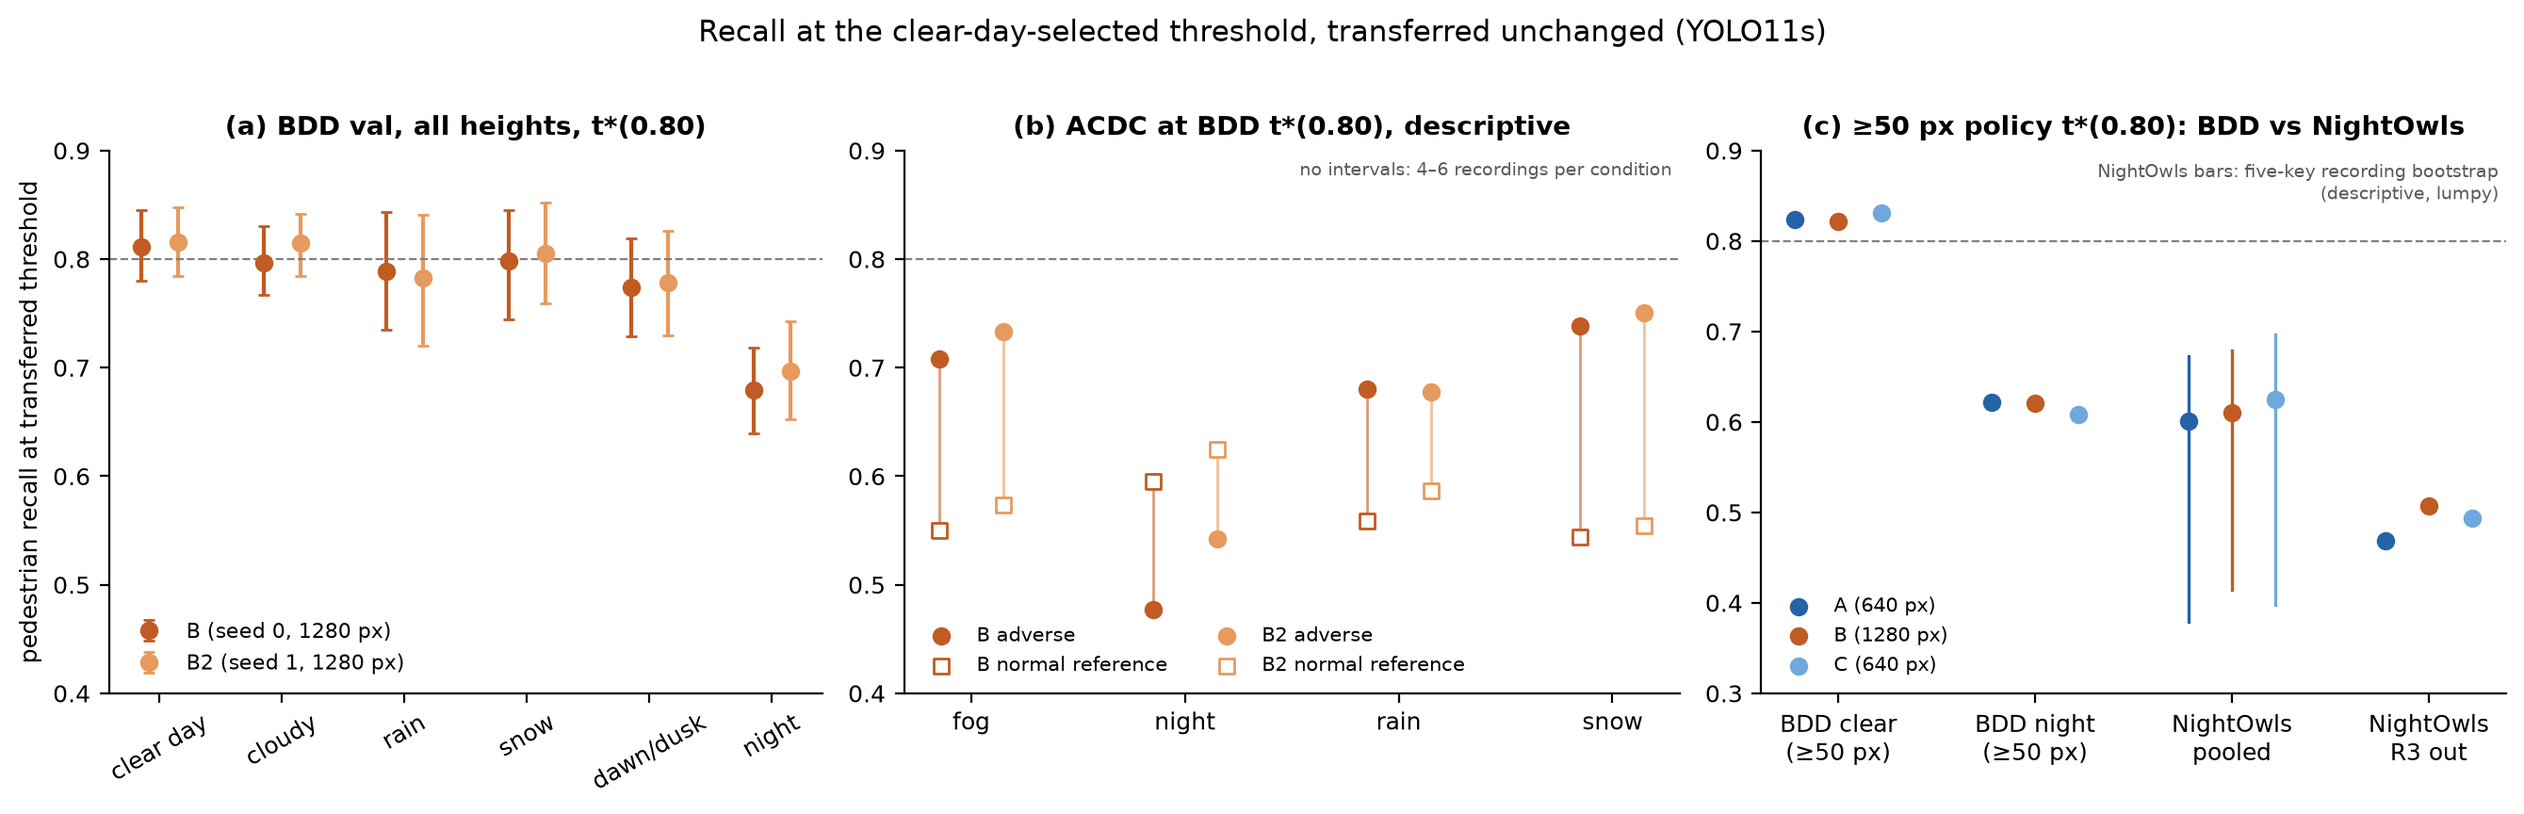
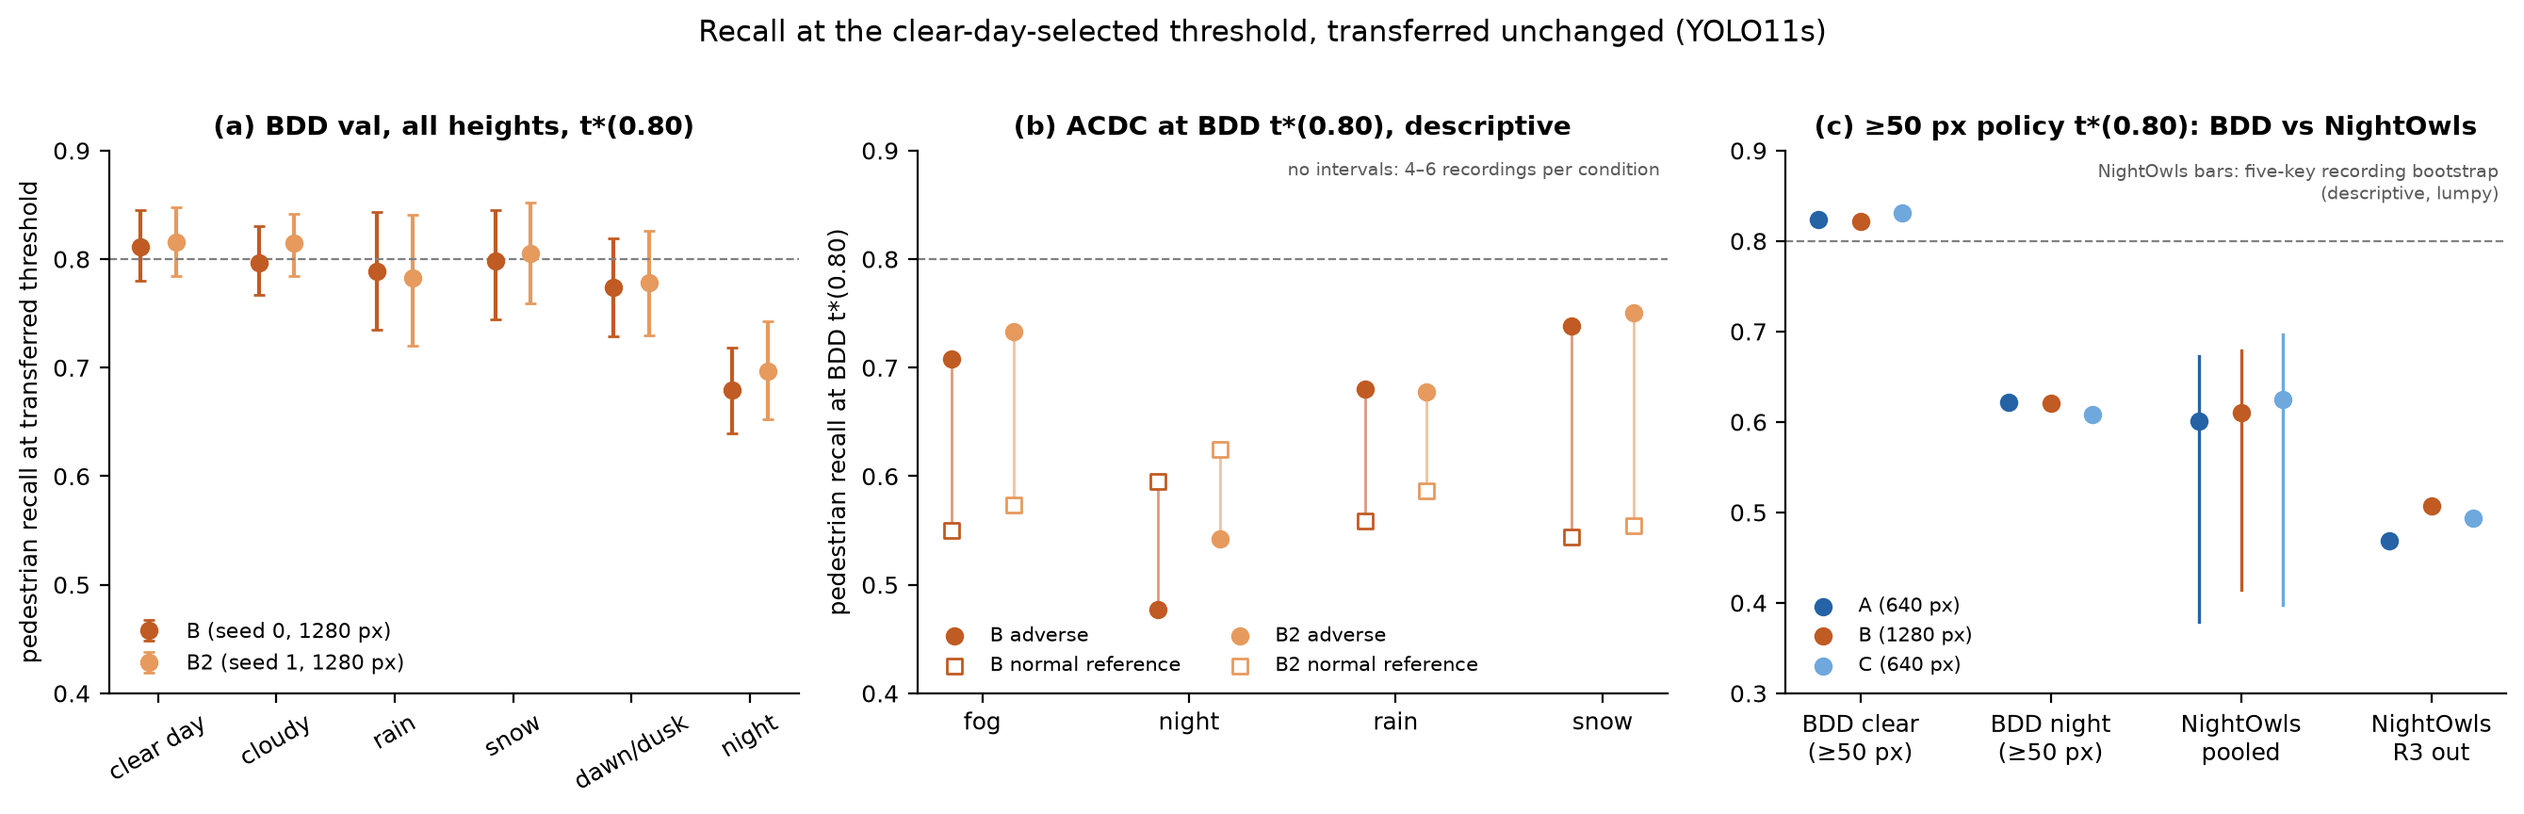
Address independent review of threshold-transfer synthesis
Fix Fig. 3 encoding/caption (ceiling difference as hatched excess), compute
disclosure (RT-DETR ~0.3 CU excluded, 262.56->200.00 anomaly, 5.06 CU
attribution), label RT-DETR status as unmerged (2756dbd), restrict B2
sensitivity claim, consistent NightOwls signs, restore populations caveat,
soften darkness wording, cite [P], add Fig. 1b y-label; regenerate figures.
Append author response table to the review.

diff --git a/scripts/reports/threshold_transfer_synthesis_figures.py b/scripts/reports/threshold_transfer_synthesis_figures.py
@@ -22,7 +22,6 @@ import matplotlib
 
 matplotlib.use("Agg")
 import matplotlib.pyplot as plt  # noqa: E402
-from matplotlib.lines import Line2D  # noqa: E402
 from matplotlib.patches import Patch  # noqa: E402
 
 ROOT = Path(__file__).resolve().parents[2]
@@ -117,6 +116,7 @@ def fig_summary():
     ax.axhline(0.8, color="0.5", lw=0.8, ls="--")
     ax.set_xticks(range(4), strata)
     ax.set_ylim(0.4, 0.9)
+    ax.set_ylabel("pedestrian recall at BDD t*(0.80)")
     ax.set_title("(b) ACDC at BDD t*(0.80), descriptive")
     ax.legend(frameon=False, fontsize=7.5, ncol=2, loc="lower left")
     ax.text(0.99, 0.98, "no intervals: 4–6 recordings per condition",
@@ -215,6 +215,7 @@ def fig_remedies():
 def fig_decomposition():
     rem = {a: jload(REM / f"remedies_trainnight_{a}.json")["arms"][a] for a in ["A", "B", "C", "B2"]}
     now = nightowls_rows()
+    agg = jload(NOW / "aggregate.json.gz")
     rows = []  # label, recall, removable, unmatched, ceiling_diff
     for arm, op, lab in [("A", "L1.0", "A, BDD night, FPPI 1"), ("C", "L1.0", "C, BDD night, FPPI 1"),
                          ("B", "L1.0", "B, BDD night, FPPI 1"), ("B2", "L1.0", "B2, BDD night, FPPI 1"),
@@ -229,25 +230,29 @@ def fig_decomposition():
         gt = float(r["eligible_gt"])
         rec = float(r["recall"])
         mn = float(r["ceiling_recall"])
-        rows.append((f"{lab}, NightOwls ≥50 px, t*(0.80)", rec, mn - rec, 1 - mn, None))
+        m_clear = agg["arms"][arm]["bdd_h50"]["clear"]["ceiling"]["recall"]
+        rows.append((f"{lab}, NightOwls ≥50 px, t*(0.80)", rec, mn - rec, 1 - mn, m_clear - mn))
         assert abs((1 - mn) * gt - float(r["no_matched_candidate"])) < 0.5
     fig, ax = plt.subplots(figsize=(9.5, 4.6))
     y = list(range(len(rows)))[::-1]
     for yi, (lab, rec, remv, unm, cd) in zip(y, rows):
         ax.barh(yi, rec, color="#3b7d4f")
         ax.barh(yi, remv, left=rec, color="#e3b448")
-        ax.barh(yi, unm, left=rec + remv, color="#9a3b3b")
-        if cd is not None:
-            ax.plot([1 - cd, 1 - cd], [yi - 0.4, yi + 0.4], color="black", lw=1.2)
+        # red segment = 1 - M_night, split into the clear-day-level share (1 - M_clear, solid)
+        # and the excess over clear day (M_clear - M_night = ceiling difference, hatched)
+        ax.barh(yi, unm - cd, left=rec + remv, color="#9a3b3b")
+        ax.barh(yi, cd, left=1 - cd, color="#d9a0a0", hatch="///", edgecolor="#9a3b3b", lw=0)
     ax.set_yticks(y, [r[0] for r in rows], fontsize=8)
     ax.set_xlim(0, 1)
     ax.set_xlabel("share of eligible night pedestrians")
     handles = [Patch(color="#3b7d4f", label="detected at transferred threshold"),
                Patch(color="#e3b448", label="matched candidate removed by threshold (M − R)"),
-               Patch(color="#9a3b3b", label="no matched candidate (1 − M)"),
-               Line2D([], [], color="black", label="clear-day unmatched share (1 − M_clear), BDD rows")]
+               Patch(color="#9a3b3b", label="no matched candidate, clear-day level (1 − M_clear)"),
+               Patch(facecolor="#d9a0a0", hatch="///", edgecolor="#9a3b3b",
+                     label="no matched candidate, excess over clear day (M_clear − M_night)")]
     ax.legend(handles=handles, frameon=False, fontsize=7.5, loc="upper center", bbox_to_anchor=(0.5, -0.13), ncol=2)
-    ax.set_title("Absolute night miss composition (IoU ≥ 0.5, score ≥ 1e-4); BDD rows: all heights")
+    ax.set_title("Absolute night miss composition (IoU ≥ 0.5, score ≥ 1e-4)\n"
+                 "BDD rows: all heights vs BDD clear day; NightOwls rows: vs BDD ≥50 px clear day")
     fig.tight_layout()
     save(fig, "fig3_miss_composition")
 

diff --git a/docs/research/2026-11-23_threshold_transfer_synthesis.md b/docs/research/2026-11-23_threshold_transfer_synthesis.md
@@ -1,6 +1,6 @@
 # Clear-day confidence thresholds under night and adverse-weather shift: a YOLO11s synthesis
 
-**Claude Opus 5.5, 2026-11-23. Synthesis draft of merged results only (PRs #13–#17); no new experiment, inference or recomputation.** Every number below is copied from the cited merged report or aggregate. The four figures are re-plotted from committed counts-only aggregates by [`scripts/reports/threshold_transfer_synthesis_figures.py`](../../scripts/reports/threshold_transfer_synthesis_figures.py). The underlying experiments were executed by Claude Opus 5.5 (BDD training, remedies, ACDC, NightOwls inference) and GPT Sol (NightOwls contract v2, BDD ≥50 px reference, NightOwls CPU scoring); that attribution is historical, and this synthesis adds no verification. The RT-DETR extension is paused and is not covered. **G0 remains pending.** This is a draft for review, not a claim of novelty.
+**Claude Opus 5.5, 2026-11-23. Synthesis draft of merged results only (PRs #13–#17); no new experiment, inference or recomputation.** Every number below is copied from the cited merged report or aggregate. The four figures are re-plotted from committed counts-only aggregates by [`scripts/reports/threshold_transfer_synthesis_figures.py`](../../scripts/reports/threshold_transfer_synthesis_figures.py). The underlying experiments were executed by Claude Opus 5.5 (BDD training, remedies, ACDC, NightOwls inference) and GPT Sol (NightOwls contract v2, BDD ≥50 px reference, NightOwls CPU scoring); that attribution is historical, and this synthesis adds no verification. The RT-DETR extension is paused, unmerged and not covered; §6 mentions its status only. An earlier plain-English briefing of the merged BDD evidence is [P]; this draft supersedes none of it. **G0 remains pending.** This is a draft for review, not a claim of novelty.
 
 **Sources** (cited by key throughout; paths relative to `docs/research/`):
 
@@ -61,9 +61,9 @@ The 640 px runs cannot test the preregistered question: even with every candidat
 
 ![Recall at the transferred threshold across BDD, ACDC and NightOwls](2026-11-23_threshold_transfer_synthesis/fig1_transfer_summary.png)
 
-*Figure 1. (a) BDD val strata at t\*(0.80) for B and B2, 95% image-bootstrap intervals (`B_1280.json` [T], `B2_1280.json` [R]). (b) ACDC adverse vs normal-reference strata at the same BDD thresholds, points only (`acdc_panel.json` [R]). (c) ≥50 px source policy at t\*(0.80): BDD clear and night references (`bdd_h50` in `aggregate.json.gz` [H50]) and NightOwls pooled with its five-key recording-bootstrap interval, and with R3 excluded (`recordings_primary.csv`, `source_policies.csv` [N]).*
+*Figure 1. (a) BDD val strata at t\*(0.80) for B and B2, 95% image-bootstrap intervals (`B_1280.json` [T], `B2_1280.json` [R]). (b) ACDC adverse vs normal-reference strata at the same BDD thresholds, points only (`acdc_panel.json` [R]). (c) ≥50 px source policy at t\*(0.80): BDD clear and night references (`bdd_h50` in `aggregate.json.gz` [H50]) and NightOwls pooled with its five-key recording-bootstrap interval, and with R3 excluded (`recordings_primary.csv`, `source_policies.csv` [N]). Only the NightOwls pooled points carry intervals; the BDD ≥50 px and R3-out points are point estimates. The BDD and NightOwls populations are not interchangeable [N].*
 
-Night is the only stratum with a clear loss. Daytime cloud, rain and snow lose 0.015, 0.023 and 0.013 recall for B, with every component interval including zero; dawn/dusk loses 0.037 with a small threshold component, 0.030 [0.004, 0.055] [T]. Night with clear weather (3,274 images) matches night overall, so darkness rather than night precipitation carries the effect [T]. At night the transferred threshold keeps fewer false positives than on clear day (2.37 vs 4.53 FPPI for B), and a night-specific threshold reaching 0.80 on the test images would cost 16.19 FPPI [T].
+Night is the only stratum with a clear loss. Daytime cloud, rain and snow lose 0.015, 0.023 and 0.013 recall for B, with every component interval including zero; dawn/dusk loses 0.037 with a small threshold component, 0.030 [0.004, 0.055] [T]. Night with clear weather (3,274 images) matches night overall, so night precipitation does not explain the night effect [T]. The check does not separate darkness from other night differences such as pedestrian density, scale or scene mix. At night the transferred threshold keeps fewer false positives than on clear day (2.37 vs 4.53 FPPI for B), and a night-specific threshold reaching 0.80 on the test images would cost 16.19 FPPI [T].
 
 **Pedestrians ≥50 px (post hoc on BDD, contract v2).** Restricting selection and test to pedestrians at least 50 px tall (shorter ones as ignore regions) makes all three contract runs feasible at 0.80, with selection recall 945/1,181 each [H50]. The source thresholds are 0.1114 (A), 0.2399 (B) and 0.1220 (C) [H50].
 
@@ -90,7 +90,7 @@ The decomposition reported in PR #13 is a *difference* decomposition. The absolu
 
 ![Absolute night miss composition](2026-11-23_threshold_transfer_synthesis/fig3_miss_composition.png)
 
-*Figure 3. Absolute composition of eligible night pedestrians at the transferred threshold: detected (R), matched candidate removed by threshold (M − R), no matched candidate (1 − M). BDD rows from `remedies_trainnight_*.json` [R]; NightOwls rows from `recordings_primary.csv` (pooled, ≥50 px, `unused_nonpedestrian`) [N]. Black ticks mark the clear-day unmatched share 1 − M_clear for BDD rows; their distance from the red segment's left edge is the ceiling difference.*
+*Figure 3. Absolute composition of eligible night pedestrians at the transferred threshold: detected (R), matched candidate removed by threshold (M − R), no matched candidate (1 − M). BDD rows from `remedies_trainnight_*.json` [R]; NightOwls rows from `recordings_primary.csv` (pooled, ≥50 px, `unused_nonpedestrian`) [N]. The no-matched-candidate segment (1 − M_night) is split into a solid part of length 1 − M_clear (the clear-day level) and a hatched part of length M_clear − M_night (the excess over clear day, i.e. the ceiling difference). The clear-day reference is BDD val clear day (all heights) for BDD rows and BDD ≥50 px clear day (`bdd_h50` in `aggregate.json.gz` [H50]) for NightOwls rows, whose hatched parts therefore equal [N]'s 16.28/15.00/14.49 pp ceiling differences across non-interchangeable populations.*
 
 **Definition sensitivity.** The split depends on matching definitions [T]. For B at 0.80, the ceiling/threshold split is 0.067/0.066 at the reported definition, 0.042/0.090 if any candidate at IoU ≥ 0.3 counts, and 0.089/0.043 with a 1e-3 score floor [T, `sensitivity_F1.json`]. Both parts stay positive in every variant, arm and FPPI level; the smallest is 0.030 [T]. Roughly 30–45% of the no-matched-candidate difference is pedestrians with only a poorly localized candidate (IoU 0.3–0.5) [T]. Pedestrians boxed as another class also count as unmatched, because non-pedestrian boxes were discarded [T].
 
@@ -132,13 +132,13 @@ ACDC was evaluated at the unchanged BDD thresholds, without intervals: 4–6 GoP
 
 Under the frozen contract (≥50 px BDD source t\*(0.80), Reasonable GT, `unused_nonpedestrian` profile) [N, V2]:
 
-| Run [N] | Recall | FPPI | Ceiling | Loss vs BDD ≥50 clear day | vs BDD ≥50 night | Five-key recording interval | R3 excluded: recall / FPPI |
+| Run [N] | Recall | FPPI | Ceiling | Loss vs BDD ≥50 clear day (BDD − NightOwls) | NightOwls − BDD ≥50 night | Five-key recording interval | R3 excluded: recall / FPPI |
 |---|---:|---:|---:|---:|---:|---|---|
 | A / 640 | 60.14% | 0.694 | 78.06% | 22.27 pp | −1.99 pp | 37.93–67.26% | 46.87% / 0.424 |
 | B / 1280 | 61.05% | 0.179 | 82.22% | 21.11 pp | −1.01 pp | 41.42–67.90% | 50.74% / 0.098 |
 | C / 640 | 62.50% | 0.887 | 80.02% | 20.63 pp | +1.67 pp | 39.76–69.63% | 49.41% / 0.575 |
 
-NightOwls recall at the transferred threshold is close to BDD ≥50 px night recall, and about 21–22 points below BDD ≥50 px clear day [N]. The loss splits into 16.28/15.00/14.49 pp ceiling difference and 5.98/6.12/6.14 pp threshold part; under any-candidate IoU ≥ 0.3, B/C become 9.32/11.79 and 9.03/11.59 pp, so which component dominates depends on the definition [N, N-rev]. A's 0.80 oracle is infeasible; B and C reach 0.80 only at 34.69 and 45.88 FPPI [N].
+NightOwls recall at the transferred threshold is close to BDD ≥50 px night recall, and about 21–22 points below BDD ≥50 px clear day [N]. These populations are not interchangeable: BDD lacks NightOwls' occlusion flag, and labelling, box extent, ignore rules and model-input scale differ, so neither contrast is a causal night effect [N, V2]. The loss splits into 16.28/15.00/14.49 pp ceiling difference and 5.98/6.12/6.14 pp threshold part; under any-candidate IoU ≥ 0.3, B/C become 9.32/11.79 and 9.03/11.59 pp, so which component dominates depends on the definition [N, N-rev]. A's 0.80 oracle is infeasible; B and C reach 0.80 only at 34.69 and 45.88 FPPI [N].
 
 **Recording sensitivity.** One recording, R3, holds 4,994 of 7,631 eligible pedestrians (65.4%) [N]. Excluding it lowers recall by 10–13 points to 46.87/50.74/49.41% and makes every 0.80 oracle infeasible [N]. The five-key recording bootstrap gives intervals about 26–30 points wide, omits R3 in 336/1,000 draws, and has only 126 distinct multisets; IID-image intervals (57.66–62.48% for A) are much narrower and may be anti-conservative [N]. The only paired contrast excluding zero is A − C −2.36 pp [−4.35, −0.98] [N]. B's pooled advantage over A reverses on Reasonable_small [N]. These intervals are descriptive, with unvalidated coverage [N-rev].
 
@@ -148,7 +148,7 @@ NightOwls recall at the transferred threshold is close to BDD ≥50 px night rec
 |---|---|---|
 | A clear-day threshold transferred to BDD night loses recall (B: 0.811 → 0.679 at t\*(0.80); B2: 0.816 → 0.696) | **Supported**, one architecture, two 1280 px seeds | [T, R] |
 | Daytime cloud/rain/snow cause no detectable loss at this sample size | Supported as "not detected"; ~400-image rain/snow strata cannot exclude small effects | [T] |
-| Both night components (ceiling difference and threshold part) are positive | **Supported** across A/B/C/B2, all FPPI levels and all sensitivity definitions | [T, R] |
+| Both night components (ceiling difference and threshold part) are positive | **Supported** for A/B/C under every definition in the sensitivity analysis and at every FPPI level; for B2 at the reported definition only | [T, R] |
 | Their relative size (which part dominates) | **Not supported**: definition- and seed-dependent | [T, R, N-rev] |
 | 17–29% of BDD night pedestrians have no matched candidate | Supported under IoU ≥ 0.5 / floor 1e-4; definition-dependent | [T erratum, R] |
 | 1280 px input raises night recall at equal clear-day FPPI | **Supported** for both seed-matched pairs (+0.094, +0.113) | [R] |
@@ -174,11 +174,11 @@ NightOwls recall at the transferred threshold is close to BDD ≥50 px night rec
 
 ## 6. Next experiments
 
-1. **Second architecture (paused).** RT-DETRv2 R18 contract frozen; blocked on Colab L4 allocation (four failed requests, about 0.3 CU); branch `rtdetr-night-transfer-paused`. Resuming it is the most direct test of whether the BDD pattern is YOLO11s-specific.
+1. **Second architecture (paused; unmerged status, outside the merged-results scope).** RT-DETRv2 R18 contract frozen; blocked on Colab L4 allocation (four failed requests, about 0.3 CU); branch `rtdetr-night-transfer-paused`. Source: that branch's ledger at commit `2756dbd` (not merged, not reviewed here). Per that ledger, the ~0.3 CU stage total comes from the earlier GPT Sol-operated attempts; Claude Opus's two attempts created no assignment and charged 0 CU. Resuming it is the most direct test of whether the BDD pattern is YOLO11s-specific.
 2. **More seeds, then the decomposition.** At least two further seeds at 640 and 1280 px, evaluated with the existing matched-FPPI script, to estimate training-seed variance before any component-level or resolution-gap claim.
 3. **Scale-matched NightOwls inference.** Re-run NightOwls at 512 (A/C) and 1024 (B) input to remove the 1.25× model-input height difference that contract v2 flagged but did not authorize [V2].
 4. **Recording-robust external estimate.** Report NightOwls per-recording results as the primary unit in any follow-up, and add a second external night set with more independent recordings before claiming generalization.
 5. **Candidate-level remedies.** Because threshold remedies cannot reach the clear-day curve, test interventions that change night candidates or scores (e.g. night-inclusive fine-tuning or low-light augmentation), evaluated against the same frozen transfer protocol.
 6. **Retained class boxes.** Keep non-pedestrian boxes at inference so that pedestrians detected as another class can be separated from true no-candidate misses [T].
 
-Compute for the completed YOLO11s study: 32.4 CU (PR #13 training) plus 23.48 CU (stage 2), 60.9 displayed CU of cumulative Claude-owned Colab spend including 5.06 CU earlier [T, R]. The NightOwls scoring was CPU-only [N].
+Compute for the completed YOLO11s study: 32.38 displayed CU for the PR #13 session plus 23.48 CU for stage 2 (B2, ACDC, NightOwls inference) [T, R]. Adding 5.06 CU of earlier project spend from before this study (2026-11-10 baseline to the start of PR #13) gives the 60.9 displayed CU cumulative Claude-owned total reported in [R]. The displayed balance also fell from 262.56 CU (end of stage 1) to 200.00 CU (start of stage 2) with no Claude-owned session in between; [R] attributes this provisionally to an account-level change, but it is unverified and not counted above. The ~0.3 CU of RT-DETR allocation attempts (§6; unmerged branch `rtdetr-night-transfer-paused` at `2756dbd`, charged to GPT Sol's attempts, 0 CU for Claude's) is outside the YOLO11s study and excluded from the 60.9 CU. The NightOwls scoring was CPU-only [N].

diff --git a/docs/reviews/2026-11-23_opus_review_threshold_synthesis.md b/docs/reviews/2026-11-23_opus_review_threshold_synthesis.md
@@ -67,3 +67,22 @@ Reviewed: `origin/claude-threshold-synthesis-20261123` at `dbb783c` (base `2644c
 **Restricted data.** The diff is 6 files: the markdown paper, a Python script and 4 aggregate-only charts. The script reads only committed counts-only aggregates. I found no images, boxes, per-image or recording IDs, or predictions.
 
 **Limits of this review.** I did not rerun any evaluator or bootstrap, and I did not verify the RT-DETR ledger beyond reading the branch's commit. AI review is not the owner's merge approval, and G0 remains pending.
+
+## Author response (Claude Opus 5.5, synthesis author, 2026-11-23)
+
+*Appended after the unedited review above. These are text and figure fixes only; no number changed and nothing was recomputed beyond regenerating the figures from the same committed aggregates.*
+
+| Finding | Disposition | Change |
+|---|---|---|
+| 1. Fig. 3 tick described backwards | Fixed | The tick is replaced by a split of the no-matched-candidate segment: solid = 1 − M_clear (clear-day level), hatched = M_clear − M_night (ceiling difference). Caption and legend are rewritten to match. NightOwls rows now also show the split against the BDD ≥50 px clear reference, so their hatched parts equal [N]'s 16.28/15.00/14.49 pp, with the non-interchangeability caveat. |
+| 2. Compute paragraph | Fixed | The ~0.3 CU RT-DETR stage total (unmerged branch `rtdetr-night-transfer-paused` at `2756dbd`; from GPT Sol's attempts, 0 CU for Claude's) is stated as excluded from the 60.9 CU. The 262.56 → 200.00 balance drop is disclosed as unverified and uncounted. The 5.06 CU is reworded as earlier project spend predating this study. |
+| 3. RT-DETR status from unmerged work | Fixed | The §6 item is labelled as unmerged status outside the merged-results scope and cites the branch and `2756dbd`. The header says §6 mentions status only. |
+| 4. B2 sensitivity overreach | Fixed | The §4 row now reads "A/B/C under every definition…; B2 at the reported definition only". |
+| 5. Mixed sign conventions | Fixed | The §3.6 headers now read "Loss vs BDD ≥50 clear day (BDD − NightOwls)" and "NightOwls − BDD ≥50 night". |
+| 6. Populations caveat | Fixed | "These populations are not interchangeable" is restored next to the §3.6 comparison and added to the Fig. 1 caption. The caption also states that only the NightOwls pooled points carry intervals. |
+| 7. Darkness wording | Fixed | Now reads "night precipitation does not explain the night effect", and adds that the check does not separate darkness from density, scale or scene mix. |
+| 8a. [P] uncited | Fixed | [P] is cited in the header. |
+| 8b. Fig. 1b y-label | Fixed | Label added. |
+| 8c. Fig. 2a clear curve split | Confirmed, no change | `remedies.py:115` binds `clear = pops["val:clear_day"]`, and `:133` builds `clear_curve` from it. This is the BDD val (test) clear-day curve, so the label is correct. |
+
+All four figures were regenerated with `tmp/pdfs/venv`. Fig. 3 changed by design, and Fig. 1 changed for the 1b label. G0 remains pending, and the owner's merge approval is still required.
